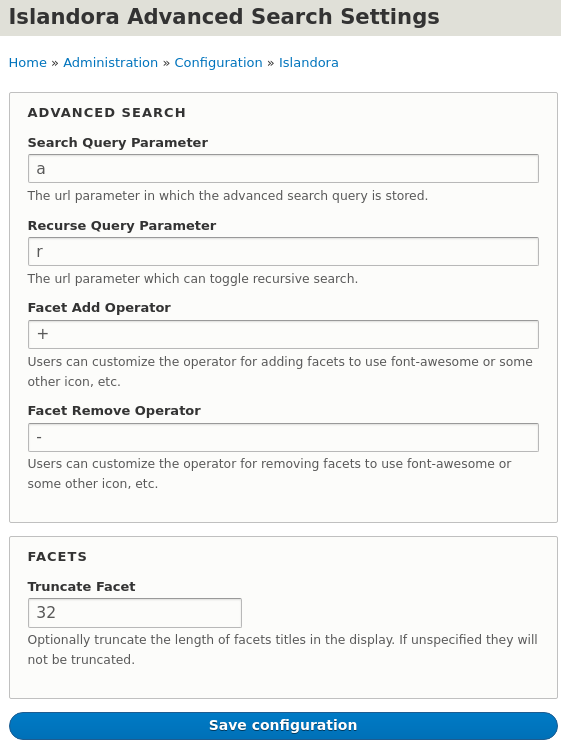
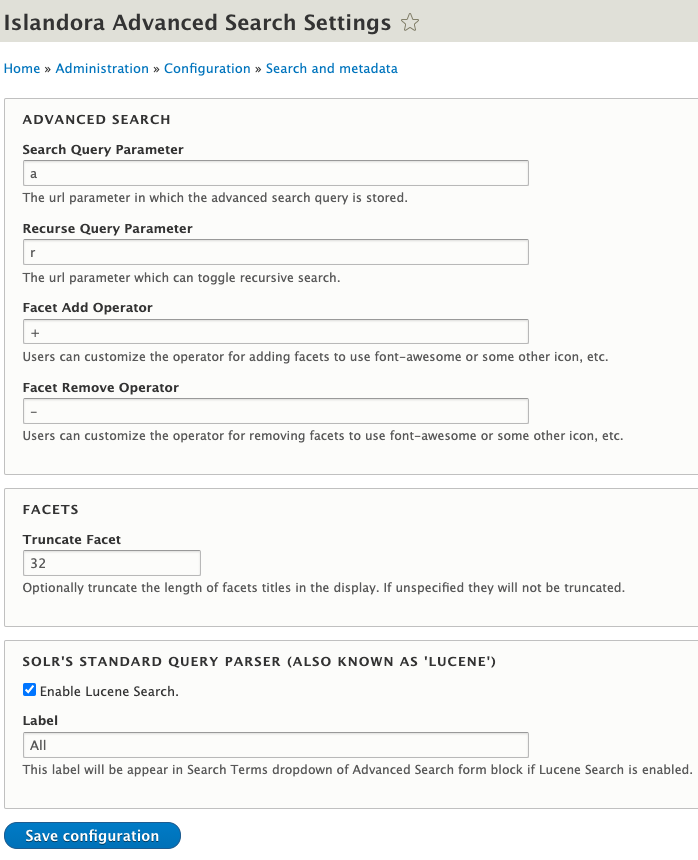
Updated Documentation

Changed region(s): [[0.0, 0.1217, 1.0, 1.0], [0.0, 0.0, 0.7879, 0.0913], [0.9697, 0.6997, 1.0, 0.7606]]

diff --git a/README.md b/README.md
@@ -5,6 +5,7 @@
 - [Installation](#installation)
 - [Configuration](#configuration)
 - [Configuring Solr](#configuring-solr)
+- [Lucene Search (New)](#lucene-search)
 - [Configure Collection Search](#configure-collection-search)
 - [Configure Views](#configure-views)
   - [Exposed Form](#exposed-form)
@@ -15,6 +16,7 @@
   - [Include / Exclude Facets](#include--exclude-facets)
 - [Configure Blocks](#configure-blocks)
   - [Advanced Search Block](#advanced-search-block)
+  - [Search Block (NEW)](#simple-search-block)
 - [Documentation](#documentation)
 - [Troubleshooting/Issues](#troubleshootingissues)
 - [Maintainers](#maintainers)
@@ -67,6 +69,16 @@ Please review
 [Islandora Documentation](https://islandora.github.io/documentation/user-documentation/searching/)
 before continuing. The following assumes you already have a working Solr and the
 Drupal Search API setup.
+
+## Lucene Search (New)
+
+Click [here](https://www.drupal.org/docs/contributed-modules/search-api-solr/solr-query-parsers) to find more detail about
+Lucene Search in Drupal.
+
+If this feature is enabled, an option of searching all mapping fields will be added in Advanced Search Form (screenshot below).
+
+![image](./docs/lucene_search_form.png)
+
 
 ## Configure Collection Search
 
@@ -214,6 +226,17 @@ checkbox.
 > affect on the function of the
 > [Advanced Search Block](#advanced-search-block). Please refer to that section
 > to learn more.
+
+### Search Block (NEW)
+
+To associate this simple search block to a Advanced Search Result Page view,
+you can select its machine name in the dropdown list. With that, this form
+will redirect to the view with search parameters.
+
+You can also change the search form's appearance by changing the default label,
+placeholder text for the search text field, and search button.
+
+![image](./docs/simple_search_settings.png)
 
 ## Documentation
 
